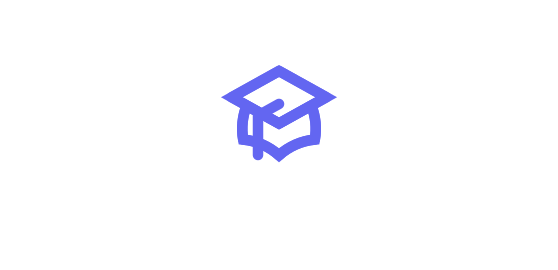
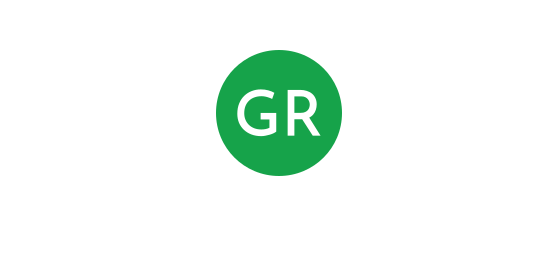
Розгортання: (5aaa26c) Merge remote-tracking branch 'origin/main'

Changed region(s): [[0.3656, 0.1778, 0.6398, 0.6519]]

diff --git a/index.html b/index.html
@@ -3,22 +3,20 @@
 <head>
   <meta charset="UTF-8"/>
   <meta content="width=device-width, initial-scale=1.0" name="viewport"/>
-  <link href="/apple-touch-icon.png" rel="apple-touch-icon" sizes="180x180">
-  <link href="/favicon-32x32.png" rel="icon" sizes="32x32" type="image/png">
-  <link href="/favicon-16x16.png" rel="icon" sizes="16x16" type="image/png">
-  <link href="/site.webmanifest" rel="manifest">
-  <link color="#6366f1" href="/safari-pinned-tab.svg" rel="mask-icon">
-  <link href="/favicon.ico" rel="shortcut icon">
-  <meta content="#2b5797" name="msapplication-TileColor">
-  <meta content="/browserconfig.xml" name="msapplication-config">
-  <meta content="#ffffff" name="theme-color">
+  <link rel="apple-touch-icon" sizes="180x180" href="/apple-touch-icon.png">
+  <link rel="icon" type="image/png" sizes="32x32" href="/favicon-32x32.png">
+  <link rel="icon" type="image/png" sizes="16x16" href="/favicon-16x16.png">
+  <link rel="manifest" href="/site.webmanifest">
+  <link rel="mask-icon" href="/safari-pinned-tab.svg" color="#16a34a">
+  <meta name="msapplication-TileColor" content="#ffffff">
+  <meta name="theme-color" content="#ffffff">
 
-  <meta content="Розклад" property="og:title"/>
+  <meta content="GreenRute — твій шкільний помічник" property="og:title"/>
+  <meta content="Сайт для шкільного розкладу. При реєстрації користувач створює кімнату або під'єднується до існуючої" property="og:description">
   <meta content="website" property="og:type"/>
[1 lines of base64/hex data omitted]
-        property="og:image"/>
+  <meta content="https://greenrute.com/screenshot-1200x630.png" property="og:image"/>
 
-  <title>Розклад 2.0</title>
+  <title>GreenRute — твій шкільний помічник</title>
   <script type="module" crossorigin src="/assets/index.95b5181a.js"></script>
   <link rel="stylesheet" href="/assets/index.12b2139e.css">
 </head>
